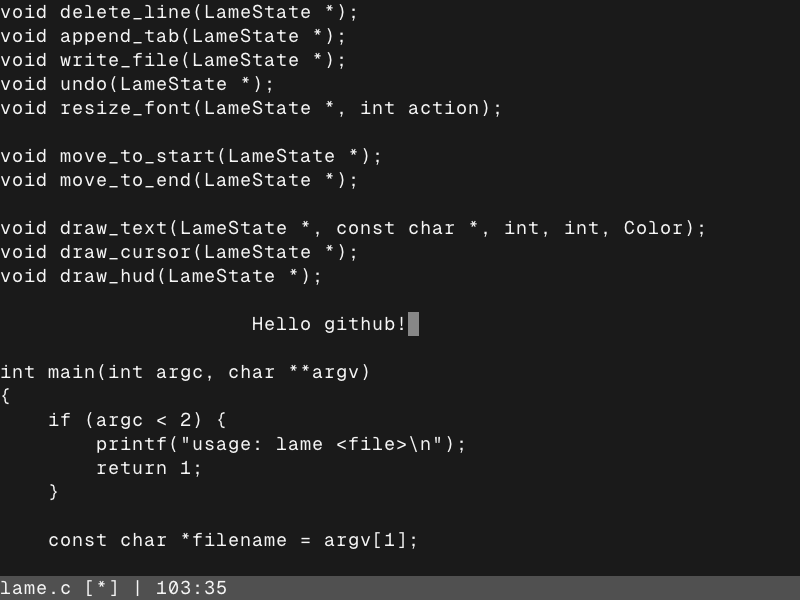
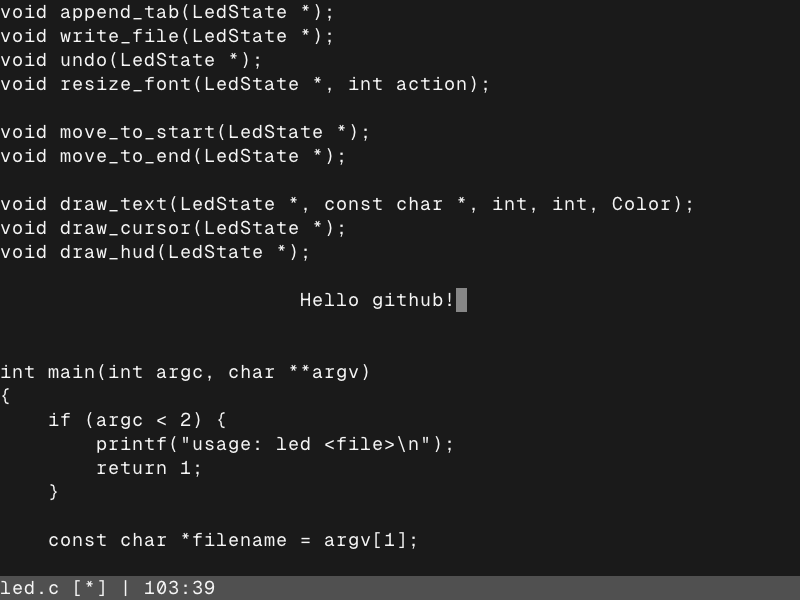
Project rename
Because lame is for mp3

diff --git a/led.c b/led.c
@@ -44,11 +44,11 @@ typedef struct _UndoBuffer {
     struct _UndoBuffer *next;
 } UndoBuffer;
 
-typedef struct LameState {
+typedef struct LedState {
     const char *title;
     const char *filename;
     bool exit;
-    LameTheme theme;
+    LedTheme theme;
 
     Line *lines;
     int lines_capacity;
@@ -67,50 +67,50 @@ typedef struct LameState {
     Camera2D camera;
 
     UndoBuffer *undo;
-} LameState;
+} LedState;
 
 UndoBuffer *undo_init(void);
 UndoBuffer *undo_append(UndoBuffer *, UndoAction);
 UndoBuffer *undo_delete(UndoBuffer *);
 void undo_free(UndoBuffer *);
 
-void state_init(LameState *, const char *);
-void load_file(LameState *);
-void state_deinit(LameState *);
+void state_init(LedState *, const char *);
+void load_file(LedState *);
+void state_deinit(LedState *);
 
 bool any_key_pressed(int *);
 
-void handle_editor_events(LameState *);
-void handle_cursor_movement(LameState *);
-int get_number_lines_on_screen(LameState *);
+void handle_editor_events(LedState *);
+void handle_cursor_movement(LedState *);
+int get_number_lines_on_screen(LedState *);
 
-void new_line(LameState *);
-void delete_char_cursor(LameState *, bool);
-void append_char_cursor(LameState *, int, bool);
-void delete_line(LameState *);
-void append_tab(LameState *);
-void write_file(LameState *);
-void undo(LameState *);
-void resize_font(LameState *, int action);
+void new_line(LedState *);
+void delete_char_cursor(LedState *, bool);
+void append_char_cursor(LedState *, int, bool);
+void delete_line(LedState *);
+void append_tab(LedState *);
+void write_file(LedState *);
+void undo(LedState *);
+void resize_font(LedState *, int action);
 
-void move_to_start(LameState *);
-void move_to_end(LameState *);
+void move_to_start(LedState *);
+void move_to_end(LedState *);
 
-void draw_text(LameState *, const char *, int, int, Color);
-void draw_cursor(LameState *);
-void draw_hud(LameState *);
+void draw_text(LedState *, const char *, int, int, Color);
+void draw_cursor(LedState *);
+void draw_hud(LedState *);
 
 int main(int argc, char **argv)
 {
     if (argc < 2) {
-        printf("usage: lame <file>\n");
+        printf("usage: led <file>\n");
         return 1;
     }
 
     const char *filename = argv[1];
 
-    LameState state = {
-        .title = TextFormat("lame - %s", filename),
+    LedState state = {
+        .title = TextFormat("led - %s", filename),
         .exit  = false,
     };
 
@@ -183,7 +183,7 @@ void undo_free(UndoBuffer *head)
     }
 }
 
-void state_init(LameState *state, const char *filename)
+void state_init(LedState *state, const char *filename)
 {
     state->filename = filename;
 
@@ -215,7 +215,7 @@ void state_init(LameState *state, const char *filename)
     new_line(state);
 }
 
-void load_file(LameState *state)
+void load_file(LedState *state)
 {
     FILE *f = fopen(state->filename, "r");
     char buffer[LINE_SIZE] = { 0 };
@@ -235,7 +235,7 @@ void load_file(LameState *state)
     fclose(f);
 }
 
-void state_deinit(LameState *state)
+void state_deinit(LedState *state)
 {
     UnloadFont(state->font);
     state->font_size = 0;
@@ -258,7 +258,7 @@ bool any_key_pressed(int *key)
     return *key >= ' ' && *key <= KEY_KB_MENU;
 }
 
-void handle_editor_events(LameState *state)
+void handle_editor_events(LedState *state)
 {
     if (IsKeyDown(KEY_LEFT_CONTROL)) {
         if (IsKeyPressed(KEY_Q))
@@ -300,7 +300,7 @@ void handle_editor_events(LameState *state)
     }
 }
 
-void handle_cursor_movement(LameState *state)
+void handle_cursor_movement(LedState *state)
 {
     int current_line_len = strlen(state->lines[state->line]);
 
@@ -346,13 +346,13 @@ void handle_cursor_movement(LameState *state)
         move_to_end(state);
 }
 
-int get_number_lines_on_screen(LameState *state)
+int get_number_lines_on_screen(LedState *state)
 {
     int num_lines = GetScreenHeight()/state->font_size;
     return num_lines - 1;
 }
 
-void new_line(LameState *state)
+void new_line(LedState *state)
 {
     Line new = calloc(LINE_SIZE, sizeof(char));
     ++state->lines_num;
@@ -370,7 +370,7 @@ void new_line(LameState *state)
     state->cursor = 0;
 }
 
-void delete_char_cursor(LameState *state, bool undo)
+void delete_char_cursor(LedState *state, bool undo)
 {
     Line line = state->lines[state->line];
     int line_len = strlen(line);
@@ -394,7 +394,7 @@ void delete_char_cursor(LameState *state, bool undo)
     state->dirty = true;
 }
 
-void append_char_cursor(LameState *state, int c, bool undo)
+void append_char_cursor(LedState *state, int c, bool undo)
 {
     Line line = state->lines[state->line];
     int line_len = strlen(line);
@@ -416,7 +416,7 @@ void append_char_cursor(LameState *state, int c, bool undo)
     state->dirty = true;
 }
 
-void delete_line(LameState *state)
+void delete_line(LedState *state)
 {
     Line line = state->lines[state->line];
     if (state->lines_num == 1) {
@@ -434,7 +434,7 @@ void delete_line(LameState *state)
     state->dirty = true;
 }
 
-void append_tab(LameState *state)
+void append_tab(LedState *state)
 {
     for (int i = 0; i < 4; ++i)
         append_char_cursor(state, ' ', true);
@@ -442,7 +442,7 @@ void append_tab(LameState *state)
     state->dirty = true;
 }
 
-void write_file(LameState *state)
+void write_file(LedState *state)
 {
     state->dirty = false;
     FILE *f = fopen(state->filename, "w");
@@ -452,7 +452,7 @@ void write_file(LameState *state)
     fclose(f);
 }
 
-void undo(LameState *state)
+void undo(LedState *state)
 {
     if (!state->undo)
         return;
@@ -473,7 +473,7 @@ void undo(LameState *state)
     state->undo = undo_delete(state->undo);
 }
 
-void resize_font(LameState *state, int action)
+void resize_font(LedState *state, int action)
 {
     int sign = (action == RESIZE_ACTION_INCREASE)? 1 : -1;
     int resize_factor = sign*FONT_RESIZE_FACTOR;
@@ -492,23 +492,23 @@ void resize_font(LameState *state, int action)
     state->font = LoadFontEx("fonts/GeistMono-Regular.ttf", state->font_size, NULL, 95);
 }
 
-void move_to_start(LameState *state)
+void move_to_start(LedState *state)
 {
     state->cursor = 0;
 }
 
-void move_to_end(LameState *state)
+void move_to_end(LedState *state)
 {
     int line_len = strlen(state->lines[state->line]);
     state->cursor = line_len;
 }
 
-void draw_text(LameState *state, const char *text, int x, int y, Color color)
+void draw_text(LedState *state, const char *text, int x, int y, Color color)
 {
     DrawTextEx(state->font, text, (Vector2){x, y}, (float)state->font_size, 1.0f, color);
 }
 
-void draw_cursor(LameState *state)
+void draw_cursor(LedState *state)
 {
     char ch = state->lines[state->line][state->cursor - 1];
     GlyphInfo glyph = GetGlyphInfo(state->font, ch);
@@ -517,7 +517,7 @@ void draw_cursor(LameState *state)
     DrawRectangleRec(cursor_rec, Fade(state->theme.text_color, 0.5f));
 }
 
-void draw_hud(LameState *state)
+void draw_hud(LedState *state)
 {
     DrawRectangle(0, GetScreenHeight() - state->font_size, GetScreenWidth(), state->font_size, state->theme.hud_color);
     const char *line_information = TextFormat("%d:%d", state->line + 1, state->cursor + 1);

diff --git a/theme.h b/theme.h
@@ -1,17 +1,17 @@
-#ifndef LAME_THEME
-#define LAME_THEME
+#ifndef LED_THEME
+#define LED_THEME
 
-typedef struct LameTheme {
+typedef struct LedTheme {
     Color background_color;
     Color text_color;
     Color hud_color;
-} LameTheme;
+} LedTheme;
 
 #define NUM_THEMES 2
 
-LameTheme themes[NUM_THEMES] = {
-    (LameTheme){ (Color){ 26, 26, 26, 255 }, RAYWHITE, DARKGRAY },
-    (LameTheme){ RAYWHITE, BLACK, GRAY },
+LedTheme themes[NUM_THEMES] = {
+    (LedTheme){ (Color){ 26, 26, 26, 255 }, RAYWHITE, DARKGRAY },
+    (LedTheme){ RAYWHITE, BLACK, GRAY },
 };
 
-#endif // LAME_THEME
+#endif // LED_THEME

diff --git a/README.md b/README.md
@@ -1,4 +1,4 @@
-# lame
+# led (lauchi's editor)
 A rudimentary text editor made with [raylib](https://github.com/raysan5/raylib)
 ![](https://raw.githubusercontent.com/lauchimoon/lame/refs/heads/main/assets/ss.png)
 
@@ -13,9 +13,9 @@ A rudimentary text editor made with [raylib](https://github.com/raysan5/raylib)
 
 ## Usage
 ```
-$ git clone https://github.com/lauchimoon/lame.git
+$ git clone https://github.com/lauchimoon/led.git
 $ cd lame
 $ make
-$ ./lame <file>
+$ ./led <file>
 ```
-If `<file>` doesn't exist, `lame` will create it.
+If `<file>` doesn't exist, `led` will create it.
